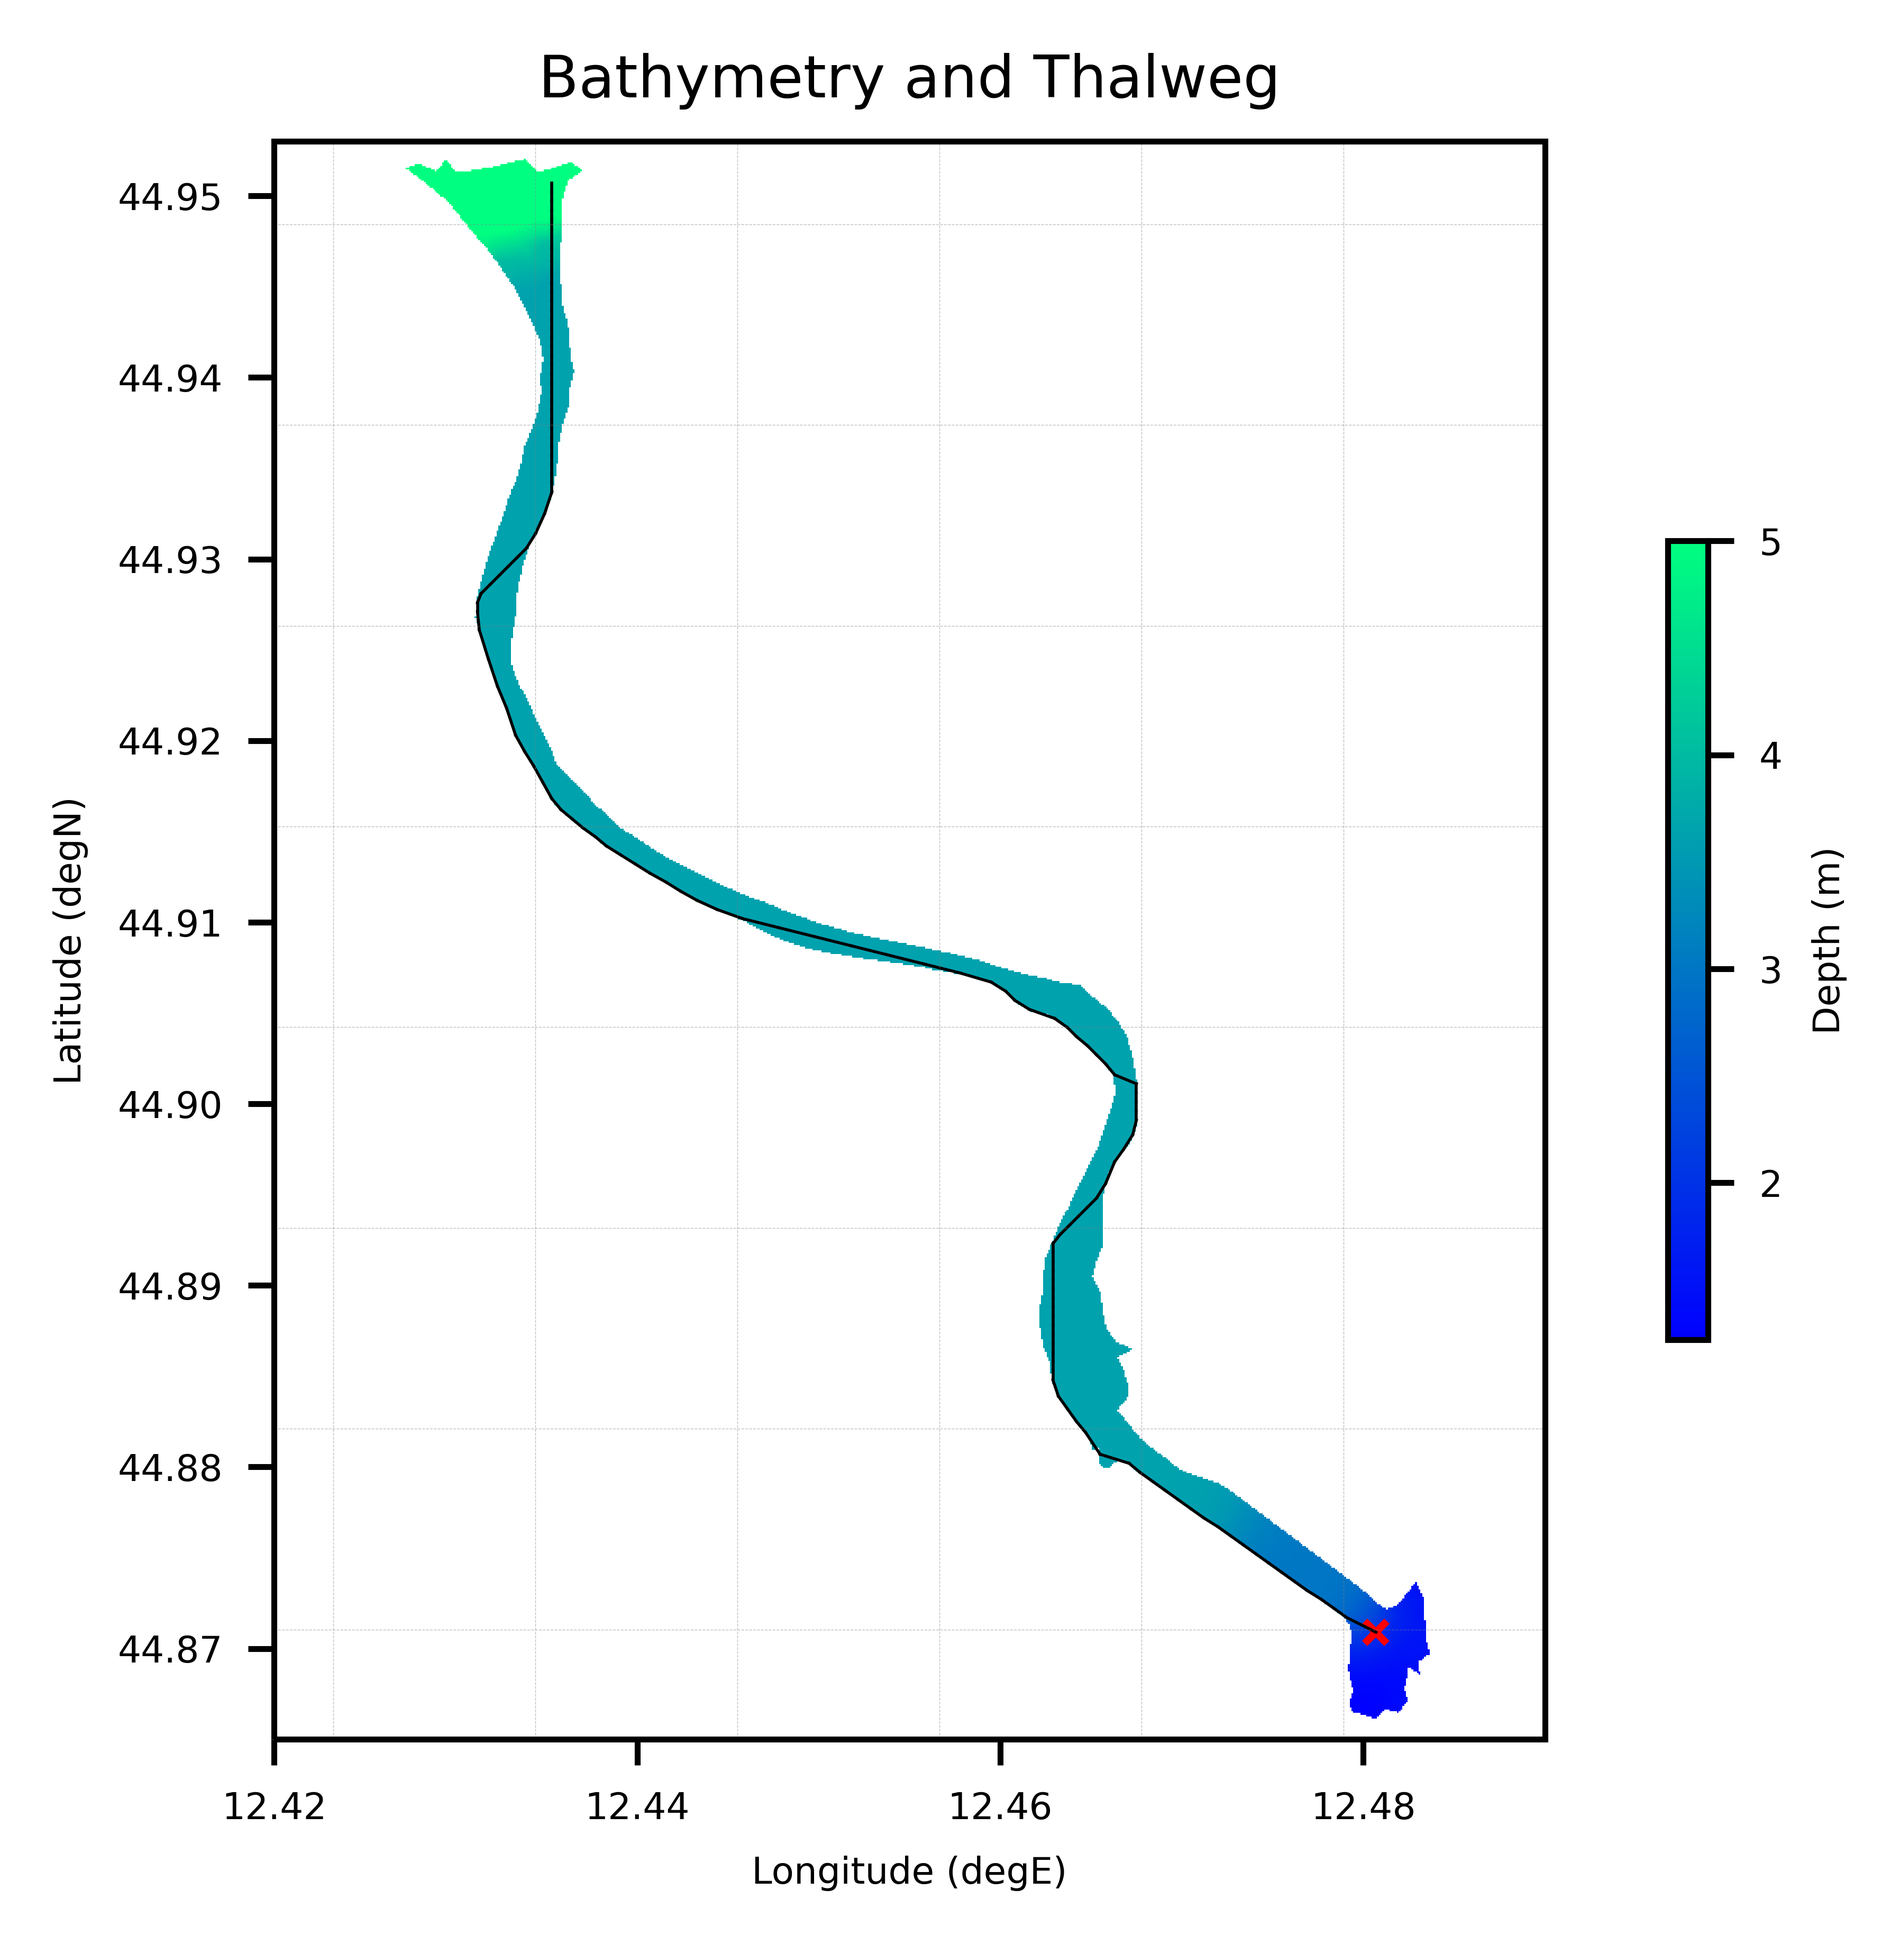
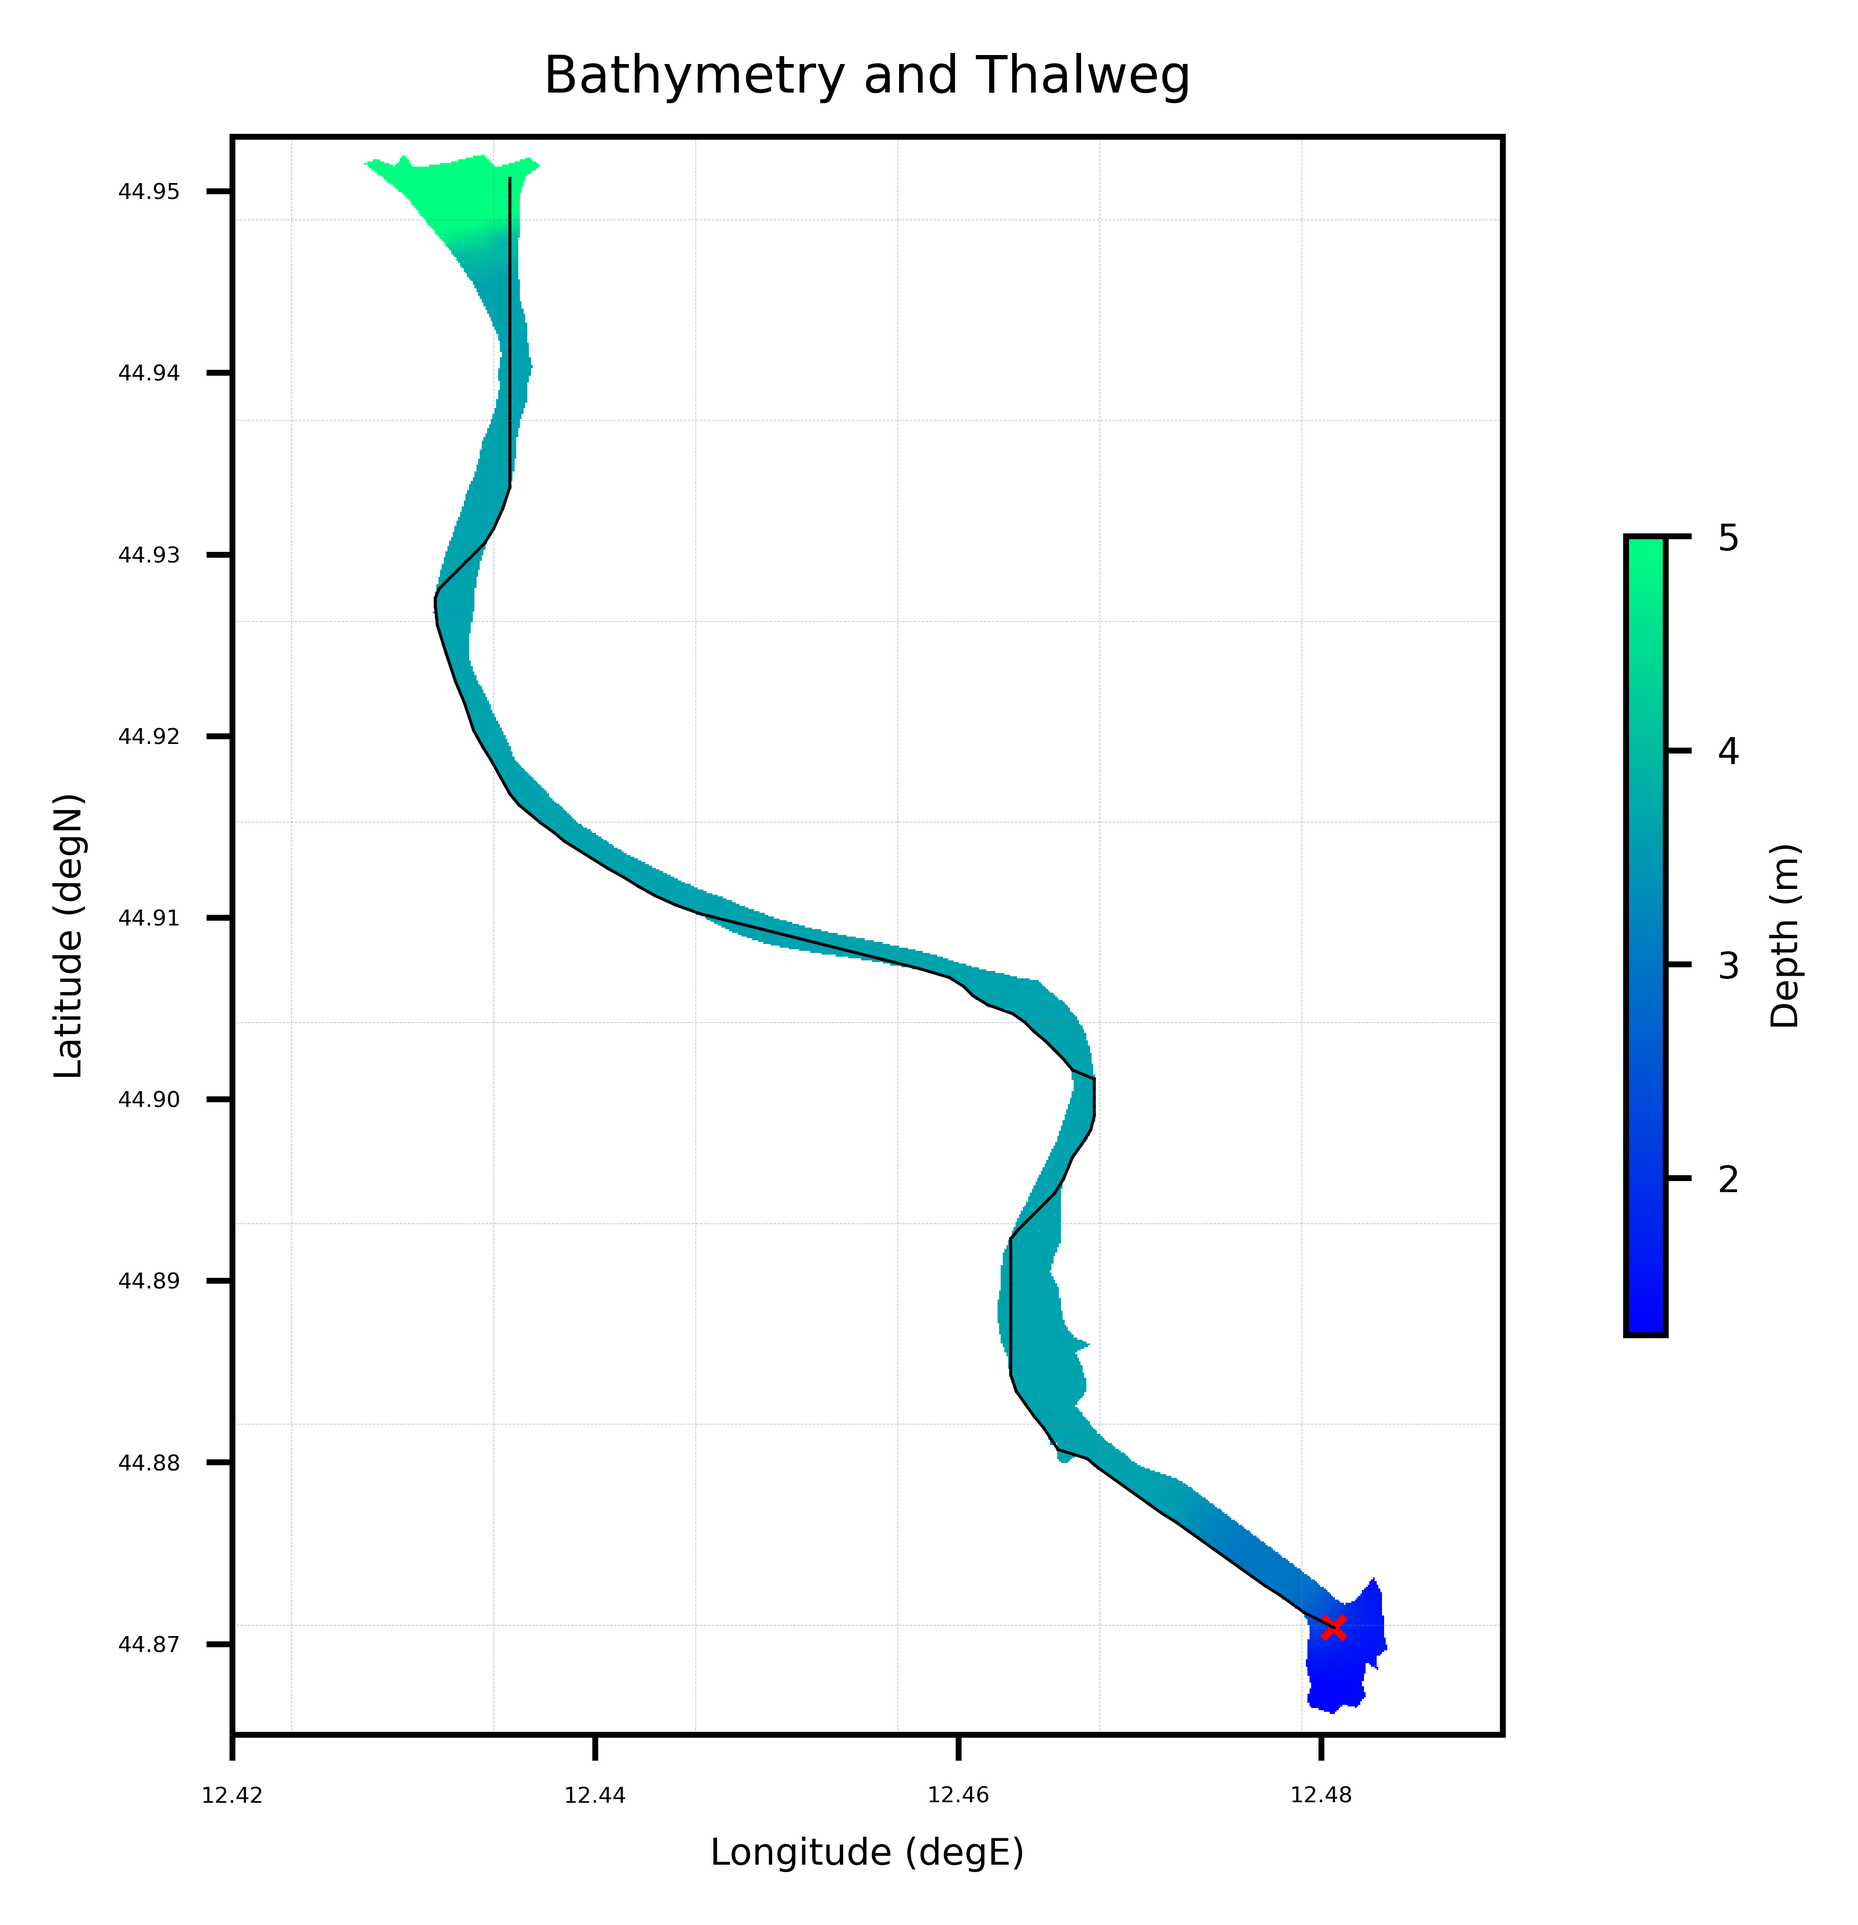
Updated and added configuration files

Changed region(s): [[0.031, 0.0311, 0.8377, 0.994], [0.8688, 0.2795, 0.9929, 0.7144], [0.4034, 0.9629, 0.4654, 0.994]]

diff --git a/libs/plot_utilities.py b/libs/plot_utilities.py
@@ -102,12 +102,6 @@ def plot(ds, thalweg, thalweg_depth, configDict, logFile):
     Nothing
     
     """
-
-    # # bounding box
-    # min_lat = 44.92
-    # max_lat = 45
-    # min_lon = 12.06
-    # max_lon = 12.23
     
     min_lat = configDict["latMin"]
     min_lon = configDict["lonMin"]
@@ -138,18 +132,18 @@ def plot(ds, thalweg, thalweg_depth, configDict, logFile):
     # Add ticks
     ax.set_xticks(np.round(np.linspace(min_lon, max_lon, num=5)), 2)
     for t in ax.get_xticklabels():
-        t.set_fontsize(5)  
+        t.set_fontsize(3)  
 
     ax.set_yticks(np.round(np.linspace(min_lat, max_lat, num=5)), 2)
     for t in ax.get_yticklabels():
-        t.set_fontsize(5)  
+        t.set_fontsize(3)  
         
     # Set the limits for the x-axis and y-axis to zoom to the specified area
     ax.set_xlim(min_lon, max_lon)
     ax.set_ylim(min_lat, max_lat)
           
     # Set plot title and colorbar
-    plt.title('Bathymetry and Thalweg', fontsize=8)
+    plt.title('Bathymetry and Thalweg', fontsize=7)
     plt.ylabel('Latitude (degN)', fontsize=5)
     plt.xlabel('Longitude (degE)', fontsize=5)
     cb = plt.colorbar(bathy_plot, shrink=0.5)
